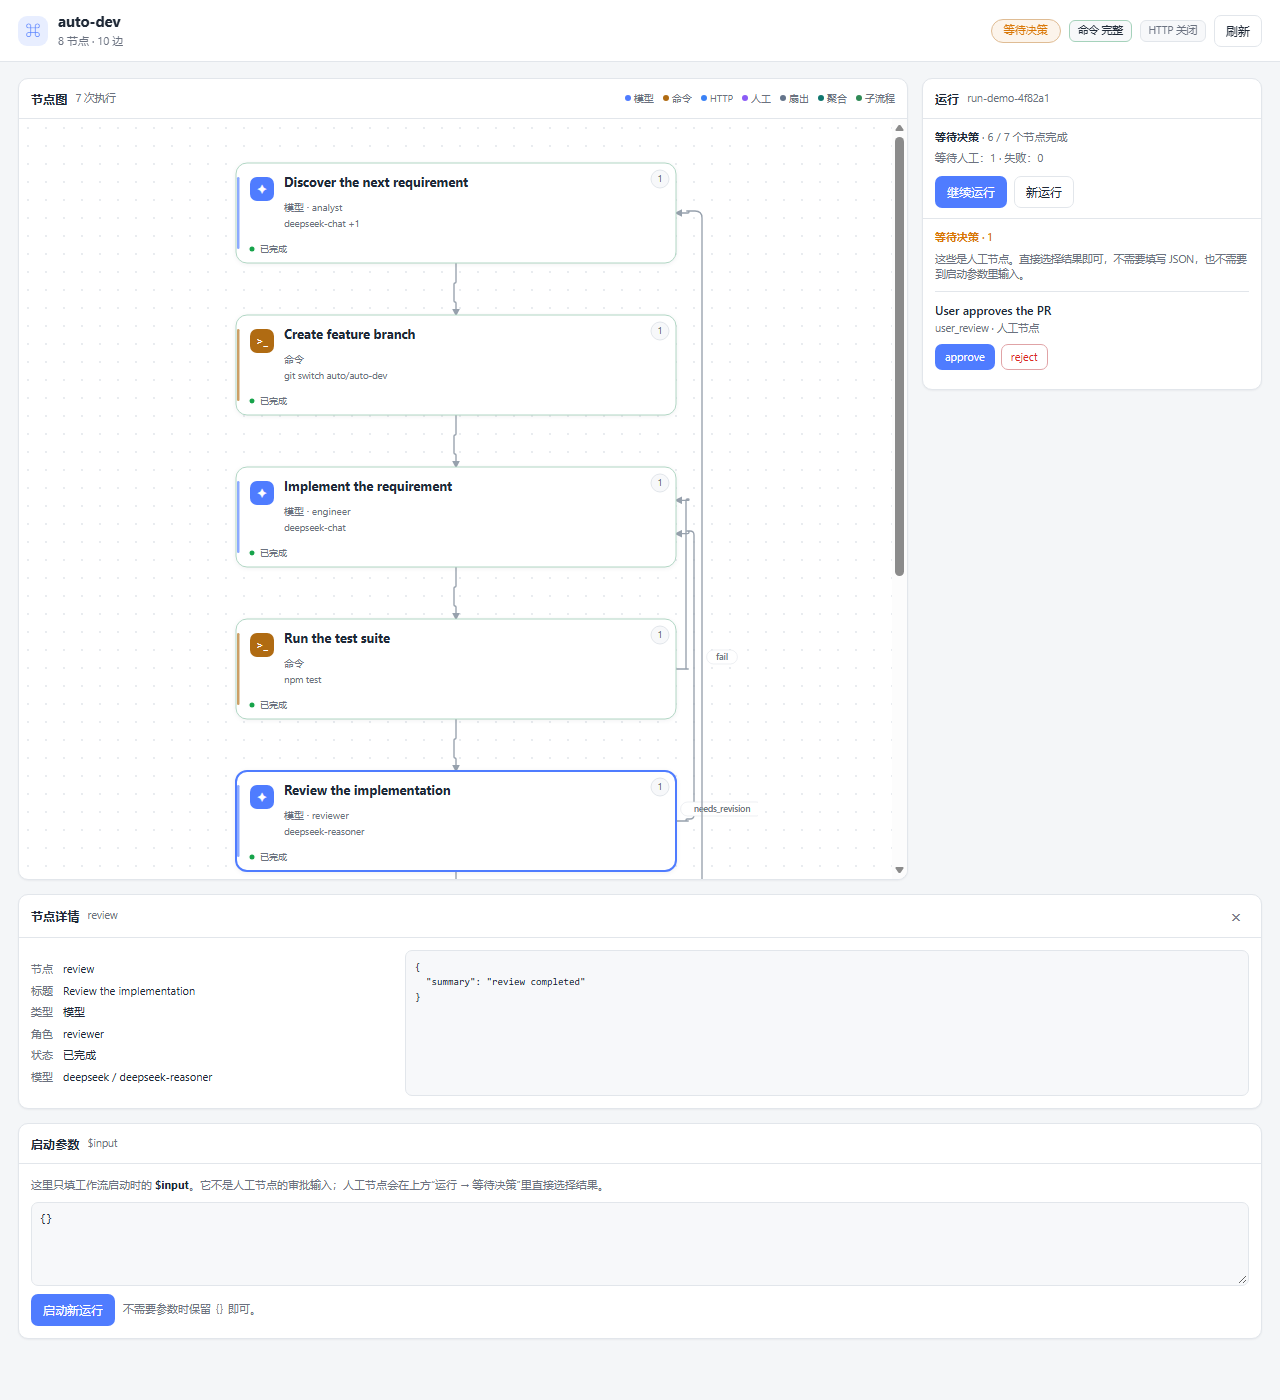
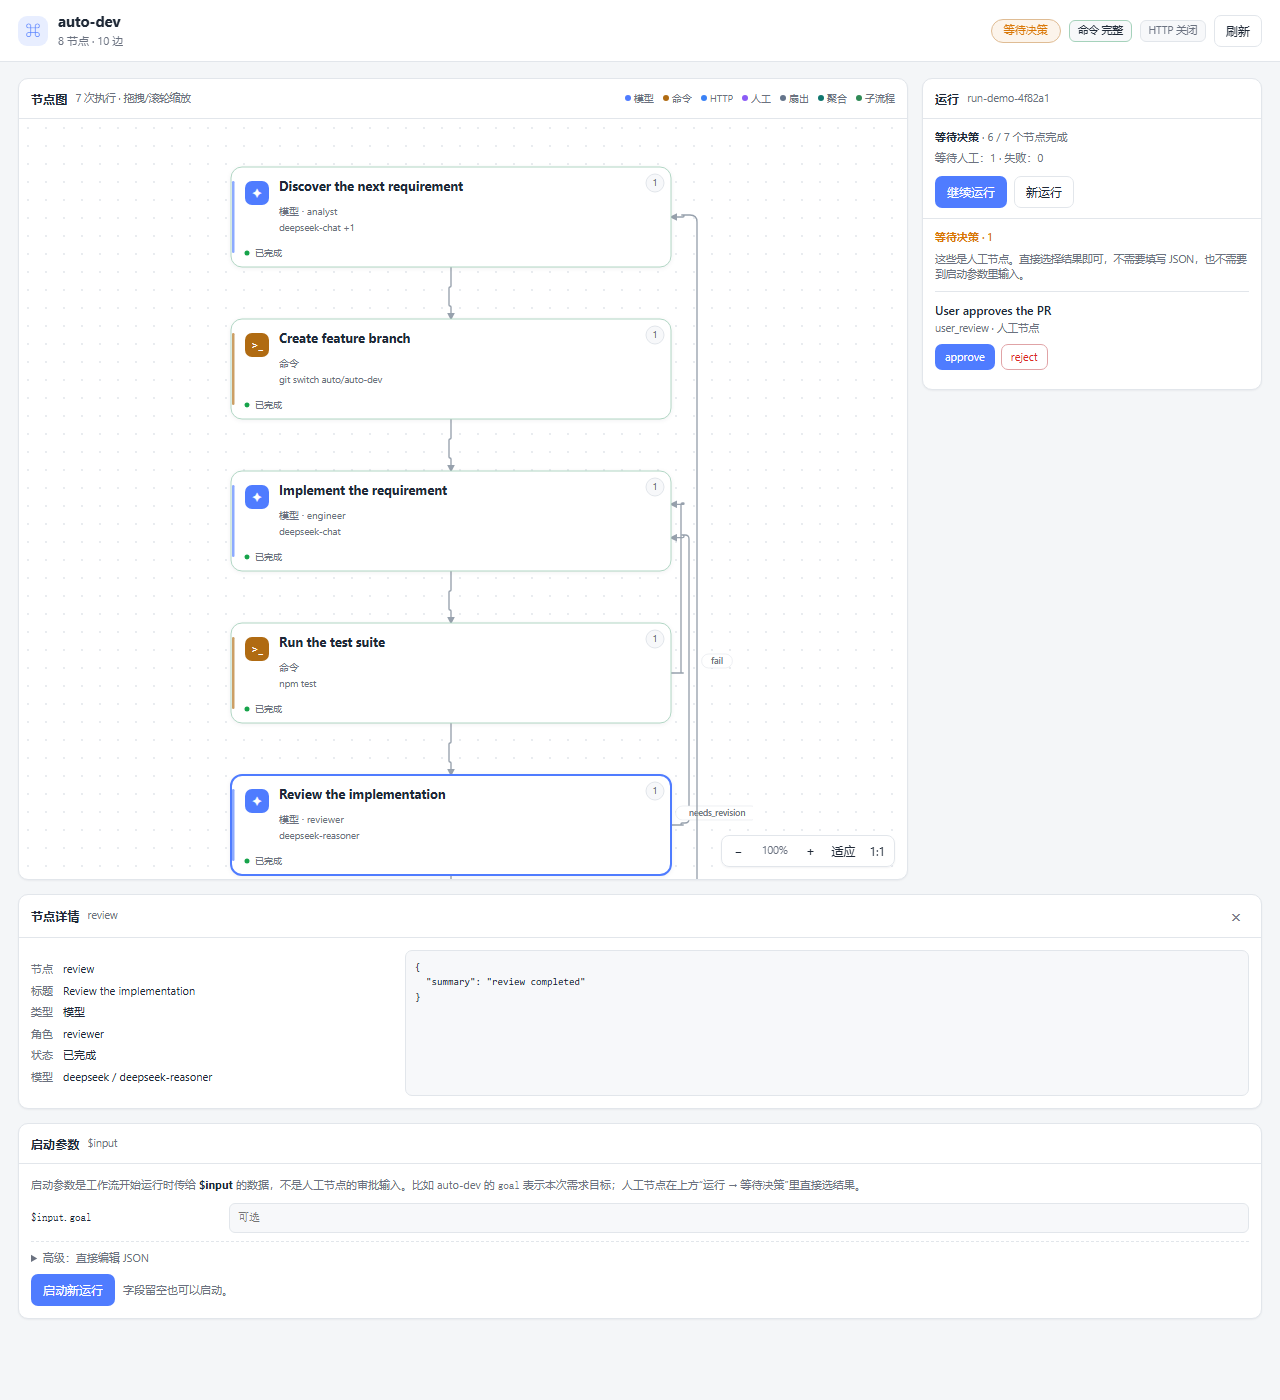
feat: pan/zoom graph and typed start fields
- Add drag-to-pan, wheel zoom, fit and actual-size controls.
- Generate start-parameter fields from the definition's $input.* references, with an advanced JSON editor.
- Clarify start input vs human decision input; bump to 2.1.0.

diff --git a/src/v2/board.html b/src/v2/board.html
@@ -71,8 +71,13 @@ button { cursor: pointer; }
 .legend { display: flex; align-items: center; gap: 9px; color: var(--muted); font-size: 10px; flex-wrap: wrap; }
 .legend i { display: inline-block; width: 6px; height: 6px; border-radius: 50%; margin-right: 3px; vertical-align: 1px; }
 .graph-card { min-width: 0; }
-.graph { height: clamp(520px, 66vh, 760px); display: flex; align-items: flex-start; justify-content: center; overflow: auto; padding: 16px; background-image: radial-gradient(circle, color-mix(in srgb, var(--line) 76%, transparent) .8px, transparent 1px); background-size: 18px 18px; }
-.graph svg { flex: none; display: block; }
+.graph { position: relative; height: clamp(520px, 66vh, 760px); overflow: hidden; cursor: grab; touch-action: none; user-select: none; background-image: radial-gradient(circle, color-mix(in srgb, var(--line) 76%, transparent) .8px, transparent 1px); background-size: 18px 18px; }
+.graph.dragging { cursor: grabbing; }
+.graph svg { position: absolute; left: 0; top: 0; transform-origin: 0 0; display: block; }
+.graph-tools { position: absolute; right: 12px; bottom: 12px; z-index: 3; display: flex; align-items: center; gap: 2px; padding: 3px; border: 1px solid var(--line); border-radius: 8px; background: color-mix(in srgb, var(--panel) 94%, transparent); box-shadow: var(--shadow); backdrop-filter: blur(6px); }
+.graph-tools button { min-width: 26px; height: 24px; padding: 0 6px; border: 0; border-radius: 5px; background: transparent; color: var(--text); font-size: 12px; }
+.graph-tools button:hover { background: var(--panel-2); }
+.graph-tools .zoom-label { min-width: 42px; text-align: center; color: var(--muted); font-size: 10.5px; font-variant-numeric: tabular-nums; }
 .node { cursor: pointer; }
 .node:hover .node-box { filter: drop-shadow(0 3px 8px rgba(16, 24, 40, .14)); }
 .node-box { fill: var(--panel); stroke: var(--line); stroke-width: 1; filter: drop-shadow(0 1px 2px rgba(16, 24, 40, .06)); }
@@ -115,6 +120,15 @@ button { cursor: pointer; }
 .detail-pre { margin: 0; max-height: 260px; overflow: auto; padding: 9px; border: 1px solid var(--line); border-radius: 7px; background: var(--panel-2); font: 10px/1.5 ui-monospace, SFMono-Regular, Consolas, monospace; white-space: pre-wrap; overflow-wrap: anywhere; }
 .start-card { margin-top: 14px; }
 .start-body { padding: 12px; display: grid; gap: 8px; }
+.start-fields { display: grid; gap: 8px; }
+.field { display: grid; grid-template-columns: minmax(120px, 190px) minmax(0, 1fr); gap: 8px; align-items: center; }
+.field label { color: var(--muted); font-size: 11px; overflow-wrap: anywhere; }
+.field label code { color: var(--text); }
+.field input { width: 100%; height: 30px; border: 1px solid var(--line); border-radius: 6px; background: var(--panel-2); color: var(--text); padding: 0 8px; font: 11px/1.5 ui-monospace, SFMono-Regular, Consolas, monospace; }
+.field-note { color: var(--muted); font-size: 10.5px; }
+.advanced { border-top: 1px dashed var(--line); padding-top: 8px; }
+.advanced summary { cursor: pointer; color: var(--muted); font-size: 11px; }
+.advanced textarea { margin-top: 8px; }
 .help { margin: 0; color: var(--muted); font-size: 11px; line-height: 1.6; }
 .help strong { color: var(--text); }
 textarea { width: 100%; min-height: 84px; resize: vertical; border: 1px solid var(--line); border-radius: 7px; background: var(--panel-2); color: var(--text); padding: 8px; font: 11px/1.5 ui-monospace, SFMono-Regular, Consolas, monospace; }
@@ -162,7 +176,16 @@ textarea { width: 100%; min-height: 84px; resize: vertical; border: 1px solid va
         <span class="spacer"></span>
         <div class="legend" id="legend"></div>
       </div>
-      <div class="graph" id="graph"><div class="empty">正在加载…</div></div>
+      <div class="graph" id="graph">
+        <div class="empty">正在加载…</div>
+        <div class="graph-tools" aria-label="节点图缩放">
+          <button type="button" id="zoomOut" title="缩小">−</button>
+          <span class="zoom-label" id="zoomLabel">100%</span>
+          <button type="button" id="zoomIn" title="放大">＋</button>
+          <button type="button" id="fitAll" title="适应画布">适应</button>
+          <button type="button" id="fitOne" title="实际大小">1:1</button>
+        </div>
+      </div>
     </section>
 
     <section class="card run-card">
@@ -189,11 +212,15 @@ textarea { width: 100%; min-height: 84px; resize: vertical; border: 1px solid va
   <section class="card start-card">
     <div class="card-head"><strong>启动参数</strong><span class="hint">$input</span></div>
     <div class="start-body">
-      <p class="help">这里只填工作流启动时的 <strong>$input</strong>。它不是人工节点的审批输入；人工节点会在上方“运行 → 等待决策”里直接选择结果。</p>
-      <textarea id="startInput" spellcheck="false">{}</textarea>
+      <p class="help">启动参数是工作流开始运行时传给 <strong>$input</strong> 的数据，不是人工节点的审批输入。比如 auto-dev 的 <code>goal</code> 表示本次需求目标；人工节点在上方“运行 → 等待决策”里直接选结果。</p>
+      <div class="start-fields" id="startFields"></div>
+      <details class="advanced">
+        <summary>高级：直接编辑 JSON</summary>
+        <textarea id="startInput" spellcheck="false">{}</textarea>
+      </details>
       <div class="start-actions">
         <button class="btn primary" id="startBtn" type="button">启动新运行</button>
-        <span class="help">不需要参数时保留 <code>{}</code> 即可。</span>
+        <span class="help">字段留空也可以启动。</span>
       </div>
     </div>
   </section>
@@ -225,7 +252,10 @@ textarea { width: 100%; min-height: 84px; resize: vertical; border: 1px solid va
   let state = null;
   let selected = null;
   let graphSize = { width: 0, height: 0 };
-  let graphRendered = false;
+  let view = { scale: 1, tx: 0, ty: 0, initialized: false };
+  let drag = null;
+  let suppressClick = false;
+  let advancedDirty = false;
   let busy = false;
   let toastTimer = null;
 
@@ -660,13 +690,44 @@ textarea { width: 100%; min-height: 84px; resize: vertical; border: 1px solid va
 
   /* ------------------------------------------------------------------ render */
 
-  function fitGraph() {
+  function applyView() {
     const element = $("graph");
     const svg = element?.querySelector("svg");
-    if (!svg || !graphSize.width) return;
-    const scale = Math.max(0.55, Math.min(1, (element.clientWidth - 32) / graphSize.width));
-    svg.setAttribute("width", Math.round(graphSize.width * scale));
-    svg.setAttribute("height", Math.round(graphSize.height * scale));
+    if (!svg) return;
+    svg.style.transform = `translate(${view.tx}px, ${view.ty}px) scale(${view.scale})`;
+    $("zoomLabel").textContent = Math.round(view.scale * 100) + "%";
+  }
+
+  function fitView(mode = "width") {
+    const element = $("graph");
+    if (!element || !graphSize.width || !graphSize.height) return;
+    const width = element.clientWidth;
+    const height = element.clientHeight;
+    let scale;
+    if (mode === "one") scale = 1;
+    else if (mode === "all") scale = Math.min(1.1, (width - 48) / graphSize.width, (height - 48) / graphSize.height);
+    else scale = Math.min(1, (width - 48) / graphSize.width);
+    scale = Math.max(0.2, Math.min(2.5, scale));
+    view.scale = scale;
+    view.tx = (width - graphSize.width * scale) / 2;
+    view.ty = mode === "all" ? (height - graphSize.height * scale) / 2 : 20;
+    view.initialized = true;
+    applyView();
+  }
+
+  function zoomAt(factor, x, y) {
+    const element = $("graph");
+    if (!element) return;
+    const rect = element.getBoundingClientRect();
+    const px = x ?? rect.width / 2;
+    const py = y ?? rect.height / 2;
+    const next = Math.max(0.2, Math.min(2.5, view.scale * factor));
+    const ratio = next / view.scale;
+    view.tx = px - (px - view.tx) * ratio;
+    view.ty = py - (py - view.ty) * ratio;
+    view.scale = next;
+    view.initialized = true;
+    applyView();
   }
 
   function renderGraph() {
@@ -678,7 +739,7 @@ textarea { width: 100%; min-height: 84px; resize: vertical; border: 1px solid va
     const counts = new Map();
     for (const token of tokens) counts.set(token.nodeId, (counts.get(token.nodeId) || 0) + 1);
     const parts = [];
-    parts.push('<svg viewBox="0 0 ' + graph.width + " " + graph.height + '" role="img" aria-label="工作流节点图">');
+    parts.push('<svg viewBox="0 0 ' + graph.width + " " + graph.height + '" width="' + graph.width + '" height="' + graph.height + '" role="img" aria-label="工作流节点图">');
     parts.push('<defs><marker id="arrow" viewBox="0 0 10 10" refX="8" refY="5" markerWidth="8" markerHeight="8" markerUnits="userSpaceOnUse" orient="auto"><path d="M0 0 L10 5 L0 10 z" fill="#97a1ad"/></marker></defs>');
     for (const edge of graph.edges) {
       parts.push('<path d="' + edge.d + '" fill="none" stroke="#97a1ad" stroke-width="1.35" stroke-linejoin="round" marker-end="url(#arrow)"/>');
@@ -720,11 +781,11 @@ textarea { width: 100%; min-height: 84px; resize: vertical; border: 1px solid va
     }
     parts.push("</svg>");
     const element = $("graph");
-    const scrollTop = element.scrollTop;
+    const tools = element.querySelector(".graph-tools");
     element.innerHTML = parts.join("");
-    fitGraph();
-    element.scrollTop = graphRendered ? scrollTop : 0;
-    graphRendered = true;
+    if (tools) element.append(tools);
+    if (!view.initialized) fitView("width");
+    else applyView();
   }
 
   function renderRun() {
@@ -772,6 +833,72 @@ textarea { width: 100%; min-height: 84px; resize: vertical; border: 1px solid va
       '<pre class="detail-pre">' + esc(JSON.stringify(token?.output ?? node.config ?? {}, null, 2)) + '</pre>';
   }
 
+  function inputPaths(definition) {
+    const paths = new Set();
+    const scan = value => {
+      if (typeof value === "string") {
+        const pattern = /\$input\.([A-Za-z0-9_.-]+)/g;
+        let match;
+        while ((match = pattern.exec(value))) paths.add(match[1]);
+      } else if (Array.isArray(value)) {
+        value.forEach(scan);
+      } else if (value && typeof value === "object") {
+        Object.values(value).forEach(scan);
+      }
+    };
+    for (const node of definition.nodes) {
+      scan(node.inputs);
+      scan(node.config);
+    }
+    return [...paths];
+  }
+
+  function setPath(target, path, value) {
+    const parts = path.split(".");
+    let cursor = target;
+    for (let index = 0; index < parts.length - 1; index += 1) {
+      const key = parts[index];
+      if (!cursor[key] || typeof cursor[key] !== "object") cursor[key] = {};
+      cursor = cursor[key];
+    }
+    cursor[parts[parts.length - 1]] = value;
+  }
+
+  function renderStartFields() {
+    const box = $("startFields");
+    const previous = {};
+    for (const input of box.querySelectorAll("[data-input]")) previous[input.dataset.input] = input.value;
+    const fields = inputPaths(state.definition);
+    if (!fields.length) {
+      box.innerHTML = '<p class="help">这个工作流没有声明 <code>$input.*</code> 字段，启动时使用空对象 <code>{}</code>。</p>';
+      return;
+    }
+    box.innerHTML = fields.map((path, index) => {
+      const id = "start-field-" + index;
+      return '<div class="field"><label for="' + id + '"><code>$input.' + esc(path) + "</code></label>" +
+        '<input id="' + id + '" data-input="' + esc(path) + '" value="' + esc(previous[path] || "") + '" placeholder="可选" spellcheck="false">' +
+        "</div>";
+    }).join("");
+  }
+
+  function fieldValue(text) {
+    const value = text.trim();
+    if (value === "") return undefined;
+    if (/^[[{"]/.test(value) || value === "null" || value === "true" || value === "false" || /^-?\d+(?:\.\d+)?$/.test(value)) {
+      try { return JSON.parse(value); } catch { return text; }
+    }
+    return text;
+  }
+
+  function collectStartInput() {
+    const input = {};
+    for (const field of $("startFields").querySelectorAll("[data-input]")) {
+      const value = fieldValue(field.value);
+      if (value !== undefined) setPath(input, field.dataset.input, value);
+    }
+    return input;
+  }
+
   function render() {
     if (!state) return;
     if (!state.defined) {
@@ -786,7 +913,7 @@ textarea { width: 100%; min-height: 84px; resize: vertical; border: 1px solid va
     const status = $("status");
     status.className = "status " + (state.run ? state.run.status : "");
     status.textContent = state.run ? (STATUS[state.run.status] || state.run.status) : "未运行";
-    $("graphHint").textContent = (state.run?.tokens?.length || 0) + " 次执行";
+    $("graphHint").textContent = (state.run?.tokens?.length || 0) + " 次执行 · 拖拽/滚轮缩放";
     const command = state.permissions?.command;
     const http = state.permissions?.http;
     const commandText = command?.mode === "full" ? "完整" : command?.mode === "allowlist" ? "白名单" : "关闭";
@@ -796,6 +923,7 @@ textarea { width: 100%; min-height: 84px; resize: vertical; border: 1px solid va
     $("permHttp").textContent = "HTTP " + httpText;
     $("permHttp").className = "perm " + (http?.mode && http.mode !== "deny" ? "on" : "");
     $("legend").innerHTML = Object.entries(TYPE).map(([type, label]) => '<span><i style="background:' + STYLE[type].color + '"></i>' + label + "</span>").join("");
+    renderStartFields();
     renderGraph();
     renderRun();
     renderDetail();
@@ -805,8 +933,9 @@ textarea { width: 100%; min-height: 84px; resize: vertical; border: 1px solid va
     if (busy || !state) return;
     if (name === "refresh") return load();
     if (name === "new") {
-      $("startInput").scrollIntoView({ behavior: "smooth", block: "center" });
-      $("startInput").focus();
+      const target = $("startFields").querySelector("[data-input]") || $("startInput");
+      target.scrollIntoView({ behavior: "smooth", block: "center" });
+      target.focus();
       return;
     }
     if (name === "run") {
@@ -828,7 +957,11 @@ textarea { width: 100%; min-height: 84px; resize: vertical; border: 1px solid va
   async function start() {
     if (busy || !state) return;
     let input;
-    try { input = JSON.parse($("startInput").value || "{}"); } catch { toast("启动参数不是合法 JSON", true); return; }
+    if (advancedDirty) {
+      try { input = JSON.parse($("startInput").value || "{}"); } catch { toast("高级 JSON 不是合法 JSON", true); return; }
+    } else {
+      input = collectStartInput();
+    }
     if (input === null || typeof input !== "object" || Array.isArray(input)) { toast("启动参数必须是 JSON 对象", true); return; }
     busy = true;
     $("startBtn").disabled = true;
@@ -863,12 +996,57 @@ textarea { width: 100%; min-height: 84px; resize: vertical; border: 1px solid va
   $("runBtn").addEventListener("click", () => action("run"));
   $("newBtn").addEventListener("click", () => action("new"));
   $("startBtn").addEventListener("click", start);
+  $("startFields").addEventListener("input", () => { advancedDirty = false; });
+  $("startInput").addEventListener("input", () => { advancedDirty = true; });
+  $("zoomOut").addEventListener("click", () => zoomAt(1 / 1.2));
+  $("zoomIn").addEventListener("click", () => zoomAt(1.2));
+  $("fitAll").addEventListener("click", () => fitView("all"));
+  $("fitOne").addEventListener("click", () => fitView("one"));
   $("closeDetail").addEventListener("click", () => { selected = null; renderDetail(); });
   $("waiting").addEventListener("click", event => {
     const button = event.target.closest("[data-token][data-outcome]");
     if (button) decide(button.dataset.token, button.dataset.outcome);
   });
+
+  const graphElement = $("graph");
+  graphElement.addEventListener("pointerdown", event => {
+    if (event.button !== 0 || event.target.closest(".graph-tools")) return;
+    drag = { x: event.clientX, y: event.clientY, tx: view.tx, ty: view.ty, moved: false, captured: false };
+    graphElement.classList.add("dragging");
+  });
+  graphElement.addEventListener("pointermove", event => {
+    if (!drag) return;
+    const dx = event.clientX - drag.x;
+    const dy = event.clientY - drag.y;
+    if (Math.abs(dx) > 3 || Math.abs(dy) > 3) drag.moved = true;
+    if (drag.moved && !drag.captured) {
+      graphElement.setPointerCapture(event.pointerId);
+      drag.captured = true;
+    }
+    view.tx = drag.tx + dx;
+    view.ty = drag.ty + dy;
+    applyView();
+  });
+  const endDrag = event => {
+    if (!drag) return;
+    suppressClick = drag.moved;
+    const captured = drag.captured;
+    drag = null;
+    graphElement.classList.remove("dragging");
+    if (captured && graphElement.hasPointerCapture?.(event.pointerId)) graphElement.releasePointerCapture(event.pointerId);
+    if (suppressClick) setTimeout(() => { suppressClick = false; }, 0);
+  };
+  graphElement.addEventListener("pointerup", endDrag);
+  graphElement.addEventListener("pointercancel", endDrag);
+  graphElement.addEventListener("wheel", event => {
+    if (event.target.closest(".graph-tools")) return;
+    event.preventDefault();
+    const rect = graphElement.getBoundingClientRect();
+    zoomAt(Math.exp(-event.deltaY * 0.0015), event.clientX - rect.left, event.clientY - rect.top);
+  }, { passive: false });
+
   $("graph").addEventListener("click", event => {
+    if (suppressClick) { suppressClick = false; return; }
     const node = event.target.closest("[data-node]");
     if (!node) return;
     selected = node.getAttribute("data-node");
@@ -885,7 +1063,7 @@ textarea { width: 100%; min-height: 84px; resize: vertical; border: 1px solid va
     renderGraph();
     renderDetail();
   });
-  window.addEventListener("resize", fitGraph);
+  window.addEventListener("resize", () => { if (view.initialized) applyView(); });
 
   if (!SESSION) {
     $("graph").innerHTML = '<div class="empty"><strong>缺少 session 参数</strong>URL 需要 ?session=&lt;session-id&gt;。</div>';

diff --git a/README.md b/README.md
@@ -247,14 +247,18 @@ The board is graph-first:
   permission state;
 - a node graph with a word-aware two-line title, role/model or command/HTTP
   detail, status dot and run count; node types keep their own glyph and accent;
-- orthogonal edges route with an A* grid around node rectangles, so they do not
-  pass through cards; outcome labels sit beside their lines;
+- drag the graph to pan, use the wheel to zoom around the pointer, and use the
+  graph controls for fit/actual-size; orthogonal edges route with an A* grid
+  around node rectangles, so they do not pass through cards; outcome labels sit
+  beside their lines;
 - clicking a node opens its detail card **below the graph**, with latest token,
   output, errors and raw config;
 - the **运行** card shows run progress and waiting human decisions. Human nodes
   are decided with outcome buttons only; no JSON input is needed there;
-- the **启动参数** card is explicitly the workflow's `$input`, not human input;
-  leave `{}` when the workflow needs no parameters.
+- the **启动参数** card builds fields from the workflow's `$input.*` references,
+  so auto-dev shows a `goal` field; it is not human input, and an advanced JSON
+  editor remains for arbitrary objects. Leave fields empty when the workflow
+  needs no parameters.
 
 The board deliberately stays an observer/light controller, not a workflow
 builder: the session model authors definitions through the tools. It can only

diff --git a/CHANGELOG.md b/CHANGELOG.md
@@ -1,5 +1,13 @@
 # Changelog
 
+## 2.1.0
+
+- Make the graph draggable and zoomable: wheel zoom around the pointer, drag to
+  pan, and controls for zoom out/in, fit, and actual size.
+- Build the start-parameter form from the workflow's `$input.*` references
+  instead of showing a bare `{}` textarea; keep an advanced JSON editor.
+- Clarify that start parameters are workflow input, not human decision input.
+
 ## 2.0.0
 
 - Remove the right-sidebar workflow panel. The conversation header now has one
